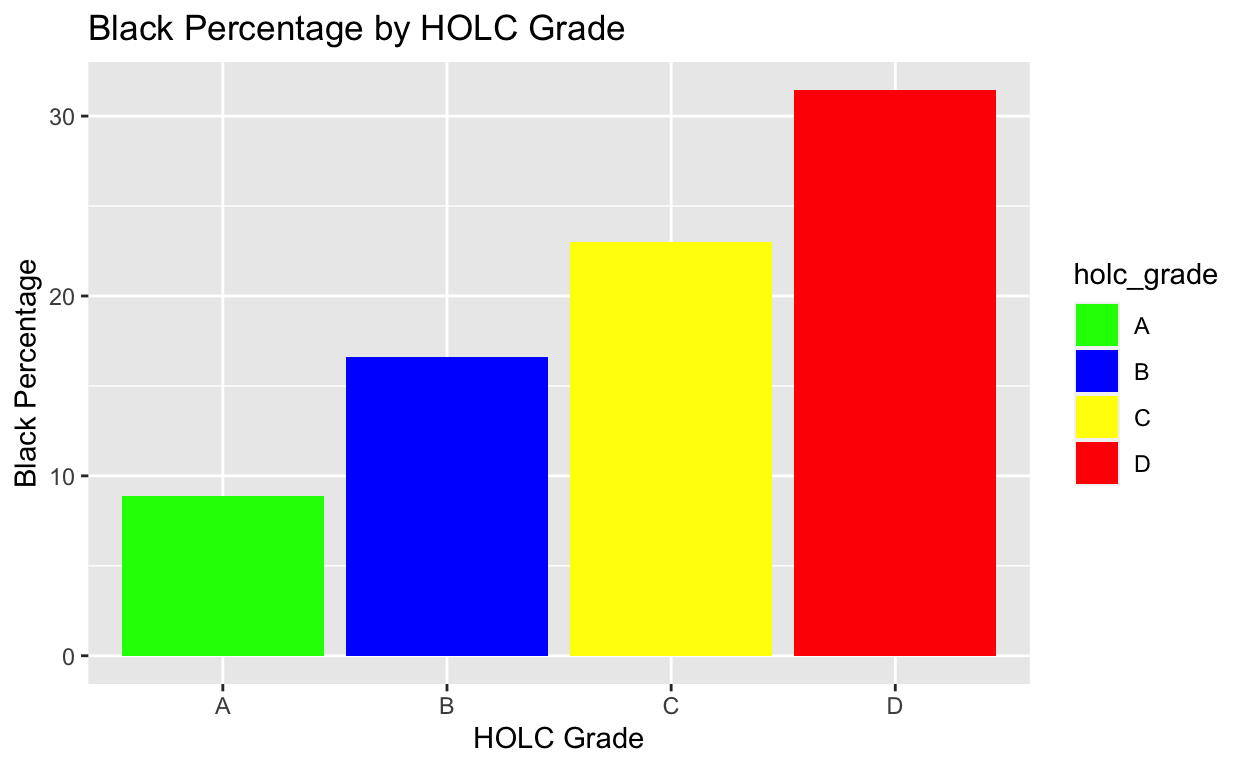
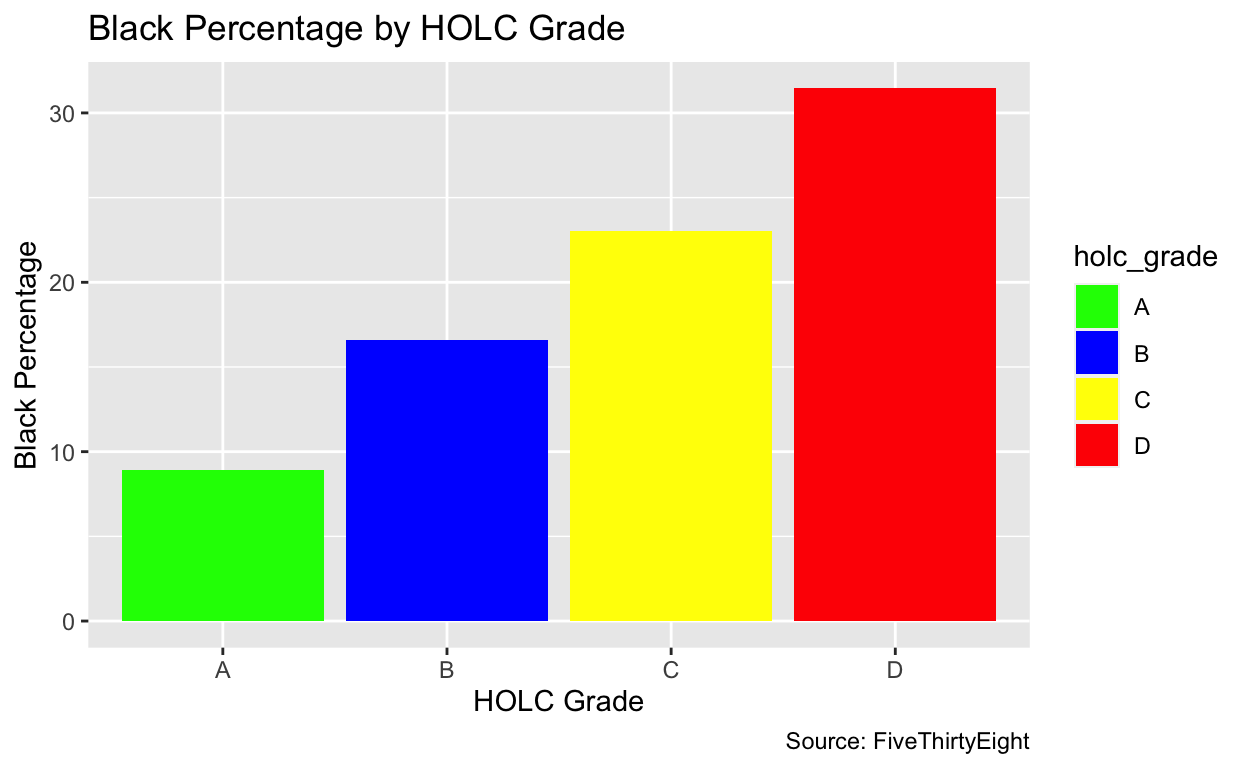
okay now we done

diff --git a/index.html b/index.html
@@ -1546,8 +1546,8 @@ code span.wa { color: #5e5e5e; font-style: italic; } /* Warning */
 <span>  <span class='fu'><a href='https://ggplot2.tidyverse.org/reference/labs.html'>labs</a></span><span class='op'>(</span></span>
 <span>    x <span class='op'>=</span> <span class='st'>"HOLC Grade"</span>,</span>
 <span>    y <span class='op'>=</span> <span class='st'>"Black Percentage"</span>,</span>
-<span>    title <span class='op'>=</span> <span class='st'>"Black Percentage by HOLC Grade"</span></span>
-<span>  <span class='op'>)</span> <span class='op'>+</span></span>
+<span>    title <span class='op'>=</span> <span class='st'>"Black Percentage by HOLC Grade"</span>,</span>
+<span>    caption <span class='op'>=</span> <span class='st'>"Source: FiveThirtyEight"</span><span class='op'>)</span> <span class='op'>+</span></span>
 <span>  <span class='fu'><a href='https://ggplot2.tidyverse.org/reference/scale_manual.html'>scale_fill_manual</a></span><span class='op'>(</span>values <span class='op'>=</span> <span class='fu'><a href='https://rdrr.io/r/base/c.html'>c</a></span><span class='op'>(</span><span class='st'>"A"</span> <span class='op'>=</span> <span class='st'>"green"</span>, <span class='st'>"B"</span> <span class='op'>=</span> <span class='st'>"blue"</span>, <span class='st'>"C"</span> <span class='op'>=</span> <span class='st'>"yellow"</span>, <span class='st'>"D"</span> <span class='op'>=</span> <span class='st'>"red"</span><span class='op'>)</span><span class='op'>)</span></span></code></pre>
 </div>
 <p><img src="index_files/figure-html5/unnamed-chunk-3-1.png" width="624" /></p>
@@ -1560,8 +1560,8 @@ code span.wa { color: #5e5e5e; font-style: italic; } /* Warning */
 <span>  <span class='fu'><a href='https://ggplot2.tidyverse.org/reference/labs.html'>labs</a></span><span class='op'>(</span></span>
 <span>    x <span class='op'>=</span> <span class='st'>"HOLC Grade"</span>,</span>
 <span>    y <span class='op'>=</span> <span class='st'>"White Percentage"</span>,</span>
-<span>    title <span class='op'>=</span> <span class='st'>"White Percentage by HOLC Grade"</span></span>
-<span>  <span class='op'>)</span> <span class='op'>+</span></span>
+<span>    title <span class='op'>=</span> <span class='st'>"White Percentage by HOLC Grade"</span>,</span>
+<span>     caption <span class='op'>=</span> <span class='st'>"Source: FiveThirtyEight"</span><span class='op'>)</span> <span class='op'>+</span></span>
 <span>  <span class='fu'><a href='https://ggplot2.tidyverse.org/reference/scale_manual.html'>scale_fill_manual</a></span><span class='op'>(</span>values <span class='op'>=</span> <span class='fu'><a href='https://rdrr.io/r/base/c.html'>c</a></span><span class='op'>(</span><span class='st'>"A"</span> <span class='op'>=</span> <span class='st'>"green"</span>, <span class='st'>"B"</span> <span class='op'>=</span> <span class='st'>"blue"</span>, <span class='st'>"C"</span> <span class='op'>=</span> <span class='st'>"yellow"</span>, <span class='st'>"D"</span> <span class='op'>=</span> <span class='st'>"red"</span><span class='op'>)</span><span class='op'>)</span></span></code></pre>
 </div>
 <p><img src="index_files/figure-html5/unnamed-chunk-4-1.png" width="624" /></p>
